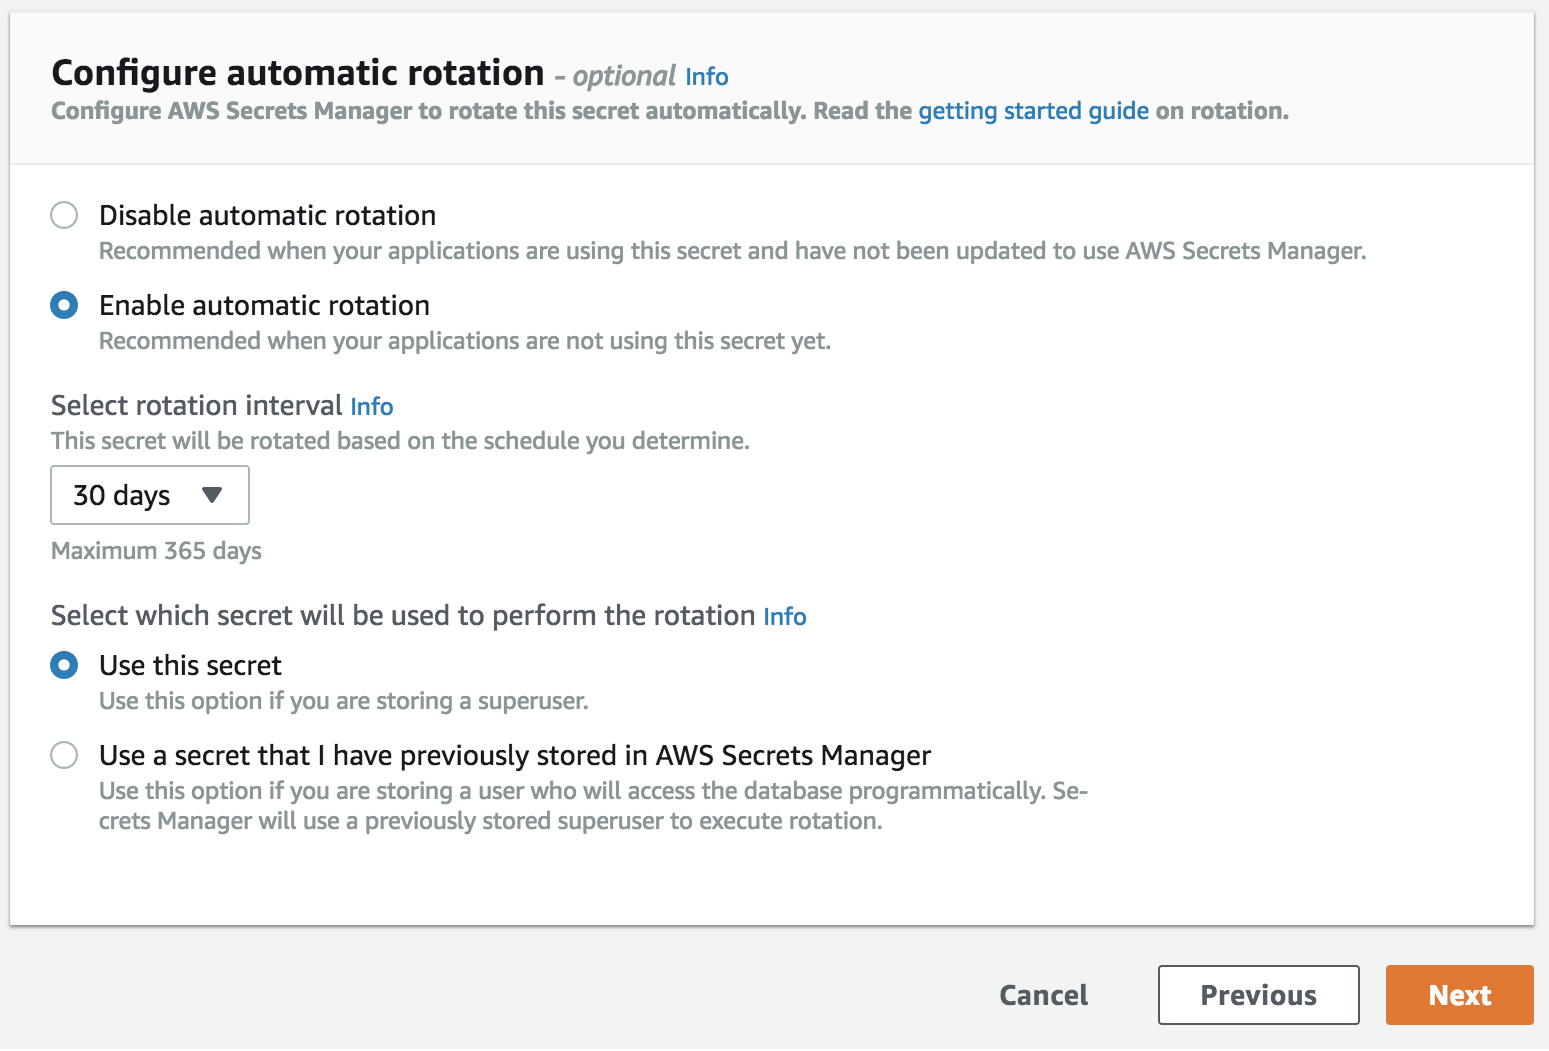
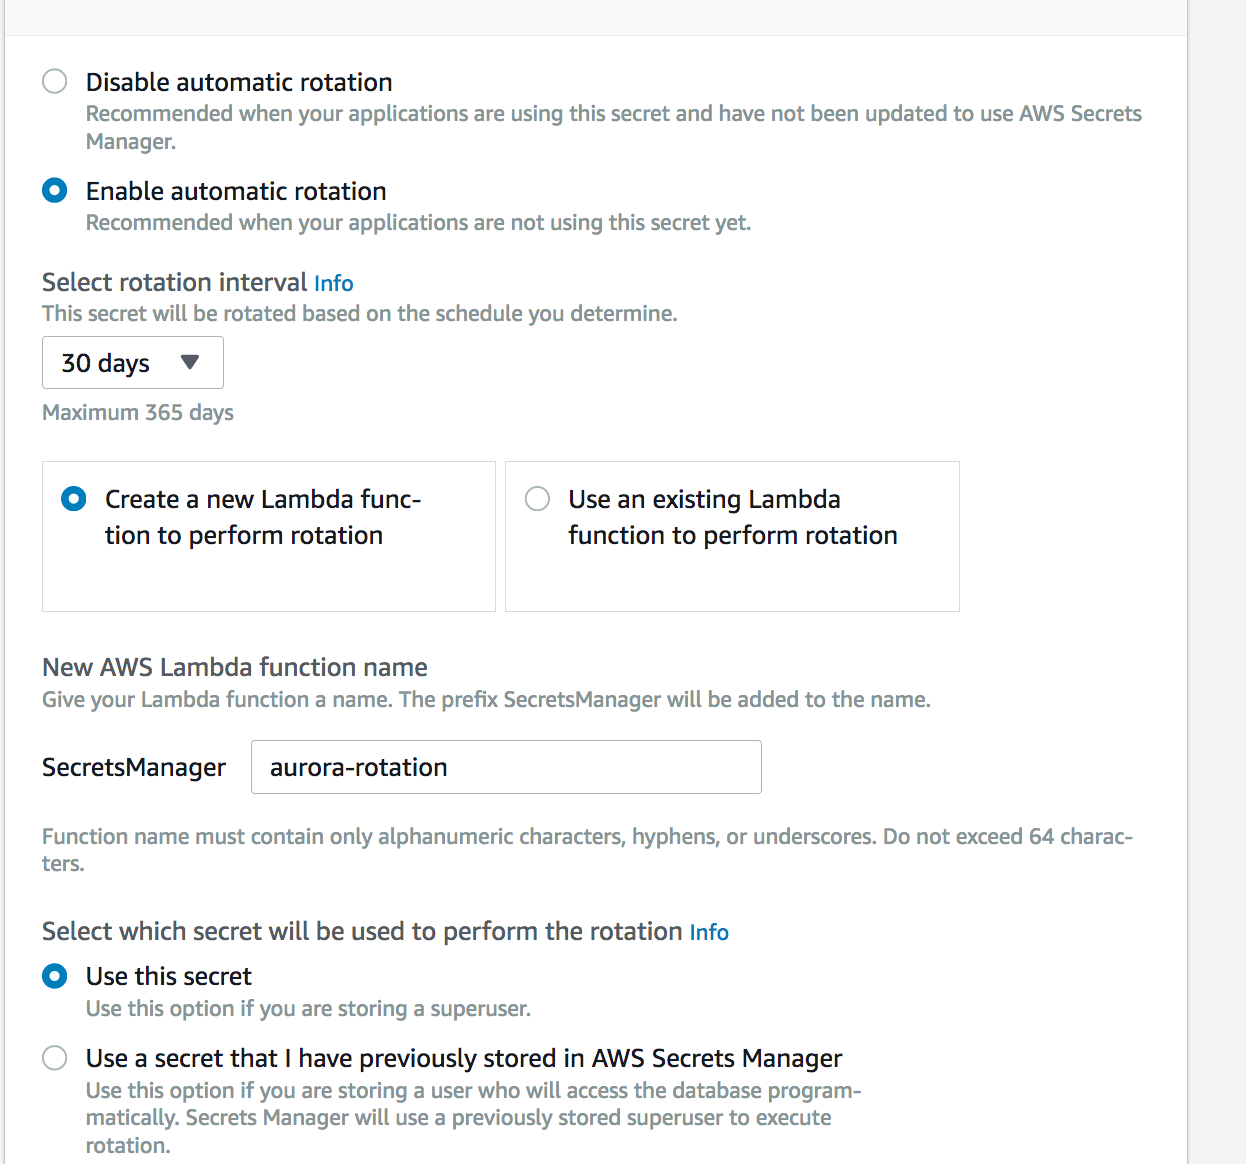
update secrets manager after console update

diff --git a/docs/02-add-secrets-manager/README.md b/docs/02-add-secrets-manager/README.md
@@ -29,7 +29,9 @@ First thing we need to do is create a secret in Secrets Manager.
 1. Again, click on *Next* and configure your rotation.
 	- Click on `Enable Rotation`
 	- Select `30 Days` as the rotation interval.
-	- Select this same secret as the one used for rotation.
+	- Choose **Create a new Lambda Function to perform rotation**
+	- Give the lambda function a name, e.g. `aurora-rotation`
+	- Select **Use this secret** 
 	![Rotation](images/04-rotation.png)
 1. Then, click *Next* and, if you want, review the example code. During the next sections we will modify our code to use Secrets Manager and this code will be used as an example.
 1. Finally, click *Store*.
